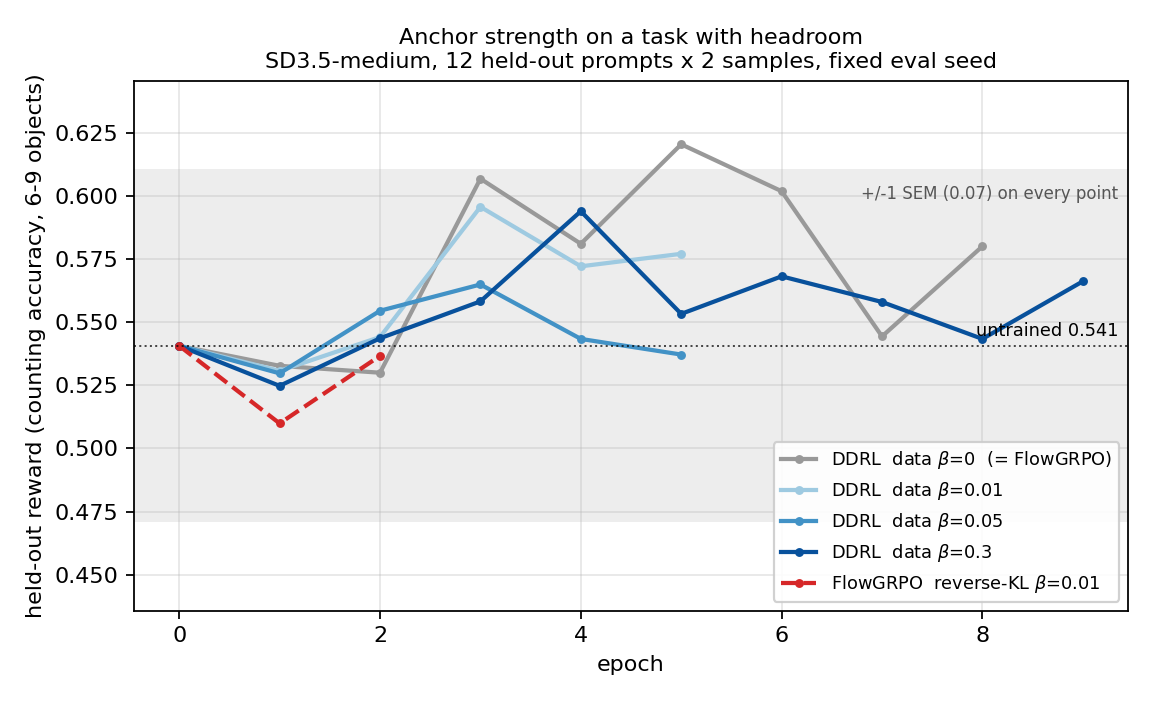
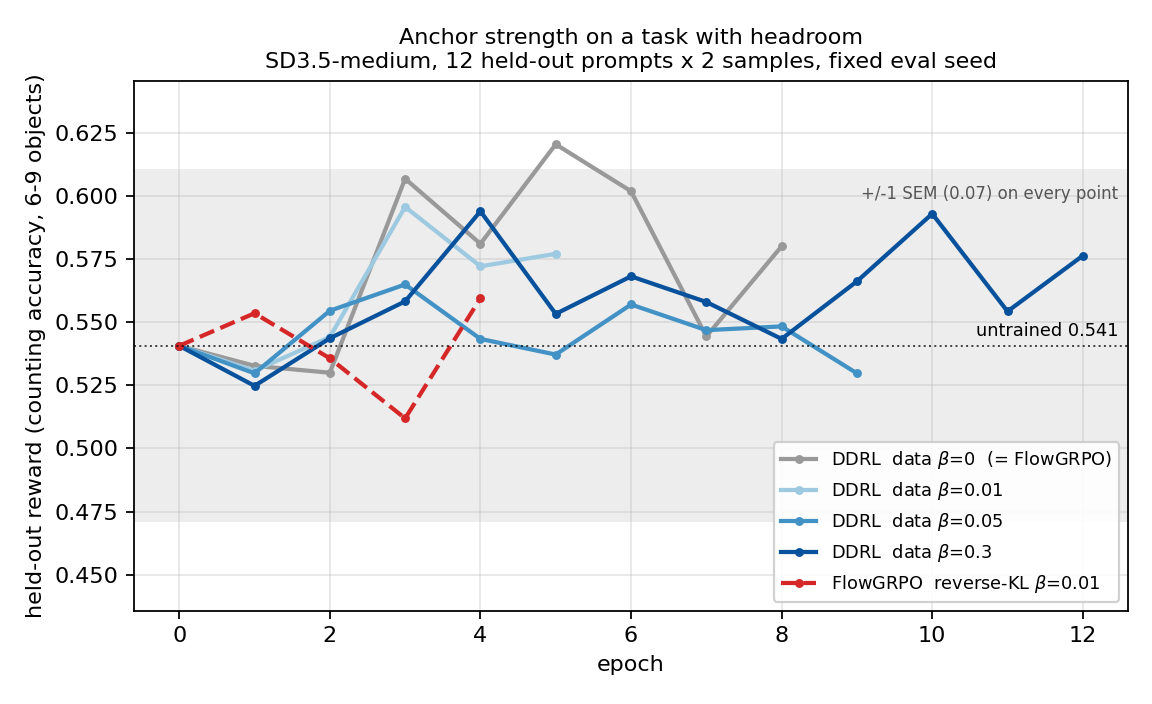
VALIDATION: longer sweep arms, and DPO held-out accuracy with the right error bar
Fixed eval pairs mean the binomial error over 100 pairs does not average down
across evals, so the SE is 0.05 and not 0.016; the DPO gain is 1-2 SE.

diff --git a/VALIDATION.md b/VALIDATION.md
@@ -168,6 +168,23 @@ Falls then flattens, which is the shape the run-script callback showed
 dataset tail with an even spread of sigmas rather than whatever the callback
 sampled, so the two are not comparable in level - only in behaviour.
 
+**DiffusionDPO gains little or nothing on held-out preference**, now that it can
+be measured. Accuracy over 11 evals: 0.500, 0.550, 0.580, 0.610, 0.530, 0.590,
+0.580, 0.520, 0.520, 0.510, 0.540 - a peak of 0.610 at step 600, then a drift back
+to 0.540, mean 0.553 against chance 0.500.
+
+The tempting summary is "mean 0.553 with a standard error of 0.016 over ten
+points, so clearly above chance". That is wrong. The 100 held-out pairs and the
+noise draws are *fixed across evals* - deliberately, so the curve moves only when
+the model does. Repeated evals therefore do not resample the pairs, and the
+binomial error from having only 100 of them does not average down. The right
+uncertainty is 0.05, so the peak is ~2 SE above chance and the mean ~1 SE.
+Suggestive, not established.
+
+That is consistent with what the training logs already showed: the loser's loss
+rises far more reliably than the winner's falls, so the objective separates the
+pair mainly by pushing one side down.
+
 **Baselines are only comparable within a GPU model.** `h_ddpo` on an a5000 starts
 at 0.499 +/- 0.073 where the atlas29 a6000-Ada arms start at 0.541, same seed and
 same held-out prompts. That is within one SEM, but the four same-node arms agreed
@@ -180,13 +197,13 @@ kernels differing by architecture. Arms must therefore stay on one node type.
 `report/beta_csv/`). Longest surviving run per arm, since atlas29 killed and
 restarted several of them:
 
-| arm | n | epoch 0 | mean of the rest | best |
-|---|---|---|---|---|
-| `hb0` data_beta 0 (= FlowGRPO) | 9 | 0.541 | 0.575 | 0.621 |
-| `hb001` 0.01 | 6 | 0.541 | 0.564 | 0.596 |
-| `hb005` 0.05 | 6 | 0.541 | 0.546 | 0.565 |
-| `hb03` 0.3 | 10 | 0.541 | 0.557 | 0.594 |
-| `hk001` FlowGRPO reverse-KL 0.01 | 3 | 0.541 | 0.523 | 0.541 |
+| arm | n | epoch 0 | mean of the rest | best | last 5 |
+|---|---|---|---|---|---|
+| `hb0` data_beta 0 (= FlowGRPO) | 9 | 0.541 | 0.575 | 0.621 | 0.586 |
+| `hb001` 0.01 | 6 | 0.541 | 0.564 | 0.596 | 0.564 |
+| `hb005` 0.05 | 10 | 0.541 | 0.546 | 0.565 | 0.544 |
+| `hb03` 0.3 | 13 | 0.541 | 0.560 | 0.594 | 0.567 |
+| `hk001` FlowGRPO reverse-KL 0.01 | 5 | 0.541 | 0.540 | 0.560 | 0.540 |
 
 **Every point of every arm lies inside +/-1 SEM of the untrained baseline.** The
 spread between arm means is 0.029 (0.546 to 0.575, excluding `hk001`), while the
@@ -195,7 +212,9 @@ between-arm differences are the same size as the noise on each arm, so no arm ca
 be ranked against another and none is distinguishable from doing nothing.
 
 The figure is drawn with the SEM band shaded for that reason: the arms only span
-0.51-0.62, so autoscaling to the data makes noise look like structure.
+0.51-0.62, so autoscaling to the data makes noise look like structure. Extending
+the longest arm to 13 points did not change any of this - its last five average
+0.567, still inside the band.
 
 What this does **not** say. It does not say the anchor is useless - its job is to
 stop drift over long training, and ten epochs is early for drift to appear. It
